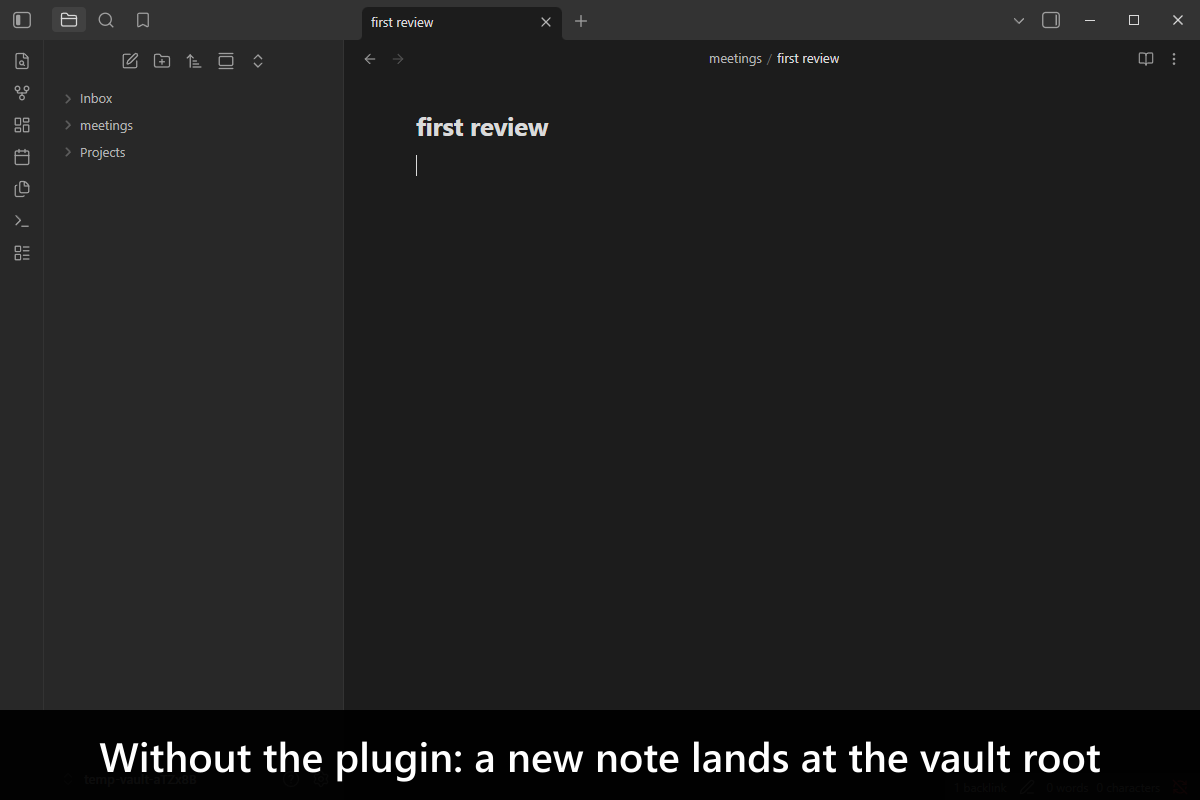
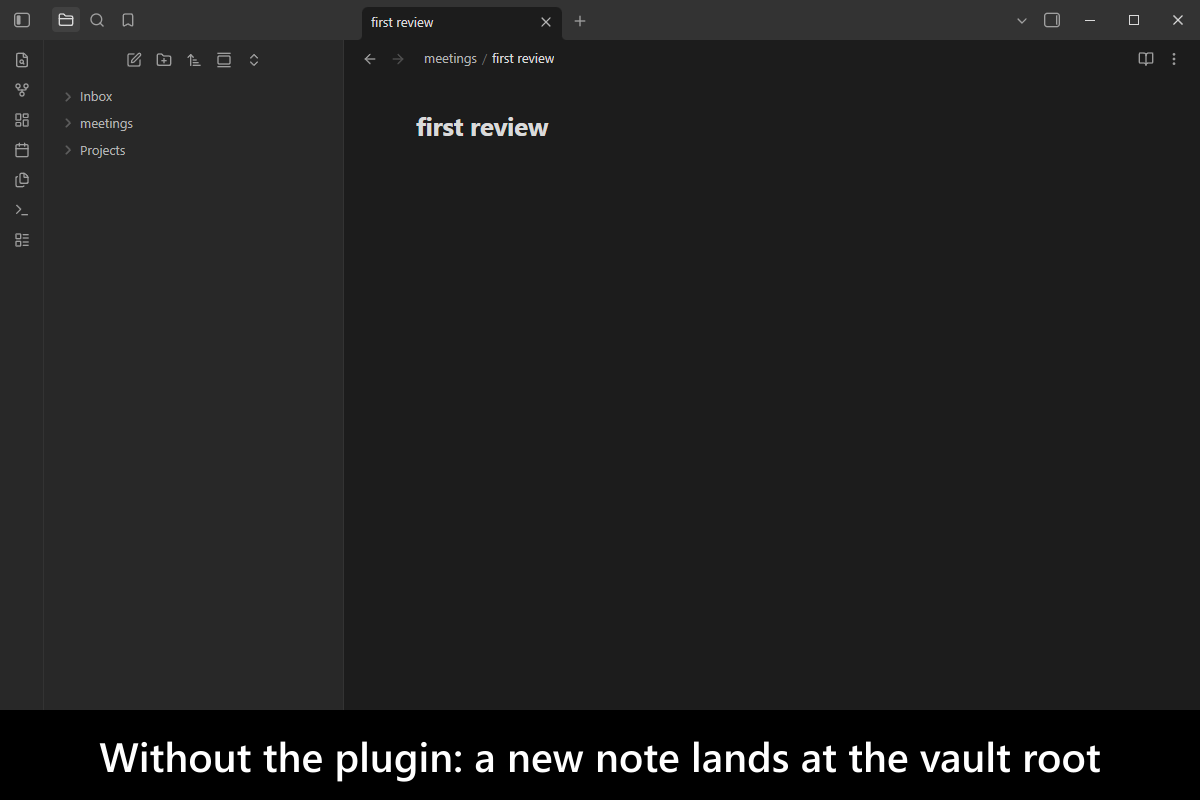
docs(screenshots): blur the editor before each desktop capture
Desktop frame 1 kept the new note's editor focused, so whether the blinking
caret showed depended on where the capture landed in the blink cycle, and two
captures of the same build differed. shoot() now blurs the focused element and
waits for a repaint first. Frame 1 is re-shot under the opaque caption band;
two consecutive captures are byte-identical for both desktop frames.

diff --git a/src/screenshots.desktop-capture.integration.test.ts b/src/screenshots.desktop-capture.integration.test.ts
@@ -122,6 +122,30 @@ describe('desktop store screenshots', () => {
 });
 
 /**
+ * Takes focus away from the editor, so the frame does not depend on where the
+ * caret's blink cycle happens to be when it is captured. Blurred rather than
+ * hidden with CSS: an unfocused editor is a state Obsidian really renders, and
+ * the frames are about the file explorer, not the caret.
+ *
+ * @returns A {@link Promise} that resolves once focus is gone and the window has repainted.
+ */
+async function blurEditor(): Promise<void> {
+  await evalInObsidian({
+    async callback(): Promise<void> {
+      const REPAINT_DELAY_IN_MILLISECONDS = 500;
+
+      const focusedEl: unknown = document.activeElement;
+      if (focusedEl instanceof HTMLElement) {
+        focusedEl.blur();
+      }
+
+      await sleep(REPAINT_DELAY_IN_MILLISECONDS);
+    },
+    vaultPath: vaultPath()
+  });
+}
+
+/**
  * Builds the note the links are clicked from.
  *
  * @returns The note's Markdown.
@@ -214,6 +238,8 @@ async function setPluginEnabled(isEnabled: boolean): Promise<void> {
  * @param caption - The caption drawn across the bottom of the frame.
  */
 async function shoot(index: number, caption: string): Promise<void> {
+  await blurEditor();
+
   const bytes = await captureObsidianScreenshot({
     heightInPixels: HEIGHT_IN_PIXELS,
     vaultPath: vaultPath(),
